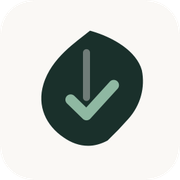
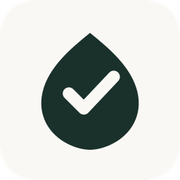
Simplify Morea mark to solid leaf with white check.
Match the high-contrast blob+tick read across favicon, headers, and Vercel avatar.

Changed region(s): [[0.2222, 0.1667, 0.8056, 0.8333], [0.3333, 0.25, 0.6667, 0.6944]]

diff --git a/register.html b/register.html
@@ -17,7 +17,7 @@
 <header class="site-header">
   <div class="container-wide">
     <a class="wordmark" href="/">
-      <svg class="logo-mark" viewBox="0 0 32 32" aria-hidden="true" fill="none"><path d="M16 2.5c-3.2 2.6-8.8 6.2-10.6 12.2-1.5 5 .6 9.4 4.6 12.1 1.7 1.2 3.6 1.9 5.6 1.9 1.4 0 2.9-.4 4.4-1.2L22.5 25l2.2-2.4c2.8-3.1 3.9-7.2 3.1-11.1C26.6 7.2 21.4 4 16 2.5z" fill="currentColor"/><path d="M15.2 7.5v10.2" stroke="currentColor" stroke-width="1.6" stroke-linecap="round" opacity="0.38"/><path class="logo-check" d="M11.6 18.2l3.6 3.5 6.2-6.8" stroke-width="2.4" stroke-linecap="round" stroke-linejoin="round"/></svg>
+      <svg class="logo-mark" viewBox="0 0 32 32" aria-hidden="true" fill="none"><path d="M16 3c-4.2 3.4-9.5 7.8-10.8 13.5-1.2 5.2 1.4 9.6 5.8 11.8 1.8.9 3.6 1.3 5 1.3s3.2-.4 5-1.3c4.4-2.2 7-6.6 5.8-11.8C25.5 10.8 20.2 6.4 16 3z" fill="currentColor"/><path class="logo-check" d="M11.2 16.8l3.4 3.4 6.8-7.2" stroke-width="2.8" stroke-linecap="round" stroke-linejoin="round"/></svg>
       <span class="wordmark-text">Morea<span class="article4">Evidence Pack</span></span>
     </a>
     <nav class="site-nav no-print">
@@ -37,7 +37,7 @@
 
 <footer class="site-footer no-print">
   <div class="container-wide site-footer-bar">
-    <a class="footer-mark" href="/"><svg class="logo-mark" viewBox="0 0 32 32" aria-hidden="true" fill="none"><path d="M16 2.5c-3.2 2.6-8.8 6.2-10.6 12.2-1.5 5 .6 9.4 4.6 12.1 1.7 1.2 3.6 1.9 5.6 1.9 1.4 0 2.9-.4 4.4-1.2L22.5 25l2.2-2.4c2.8-3.1 3.9-7.2 3.1-11.1C26.6 7.2 21.4 4 16 2.5z" fill="currentColor"/><path d="M15.2 7.5v10.2" stroke="currentColor" stroke-width="1.6" stroke-linecap="round" opacity="0.38"/><path class="logo-check" d="M11.6 18.2l3.6 3.5 6.2-6.8" stroke-width="2.4" stroke-linecap="round" stroke-linejoin="round"/></svg>Morea</a>
+    <a class="footer-mark" href="/"><svg class="logo-mark" viewBox="0 0 32 32" aria-hidden="true" fill="none"><path d="M16 3c-4.2 3.4-9.5 7.8-10.8 13.5-1.2 5.2 1.4 9.6 5.8 11.8 1.8.9 3.6 1.3 5 1.3s3.2-.4 5-1.3c4.4-2.2 7-6.6 5.8-11.8C25.5 10.8 20.2 6.4 16 3z" fill="currentColor"/><path class="logo-check" d="M11.2 16.8l3.4 3.4 6.8-7.2" stroke-width="2.8" stroke-linecap="round" stroke-linejoin="round"/></svg>Morea</a>
     <p class="footer-status">Personal reskilling project · Non-commercial · Not a product for sale · No accounts / no billing</p>
     <nav class="footer-links">
       <a href="/terms.html">Terms</a>

diff --git a/index.html b/index.html
@@ -67,7 +67,7 @@
 <header class="site-header">
   <div class="container-wide">
     <a class="wordmark" href="/">
-      <svg class="logo-mark" viewBox="0 0 32 32" aria-hidden="true" fill="none"><path d="M16 2.5c-3.2 2.6-8.8 6.2-10.6 12.2-1.5 5 .6 9.4 4.6 12.1 1.7 1.2 3.6 1.9 5.6 1.9 1.4 0 2.9-.4 4.4-1.2L22.5 25l2.2-2.4c2.8-3.1 3.9-7.2 3.1-11.1C26.6 7.2 21.4 4 16 2.5z" fill="currentColor"/><path d="M15.2 7.5v10.2" stroke="currentColor" stroke-width="1.6" stroke-linecap="round" opacity="0.38"/><path class="logo-check" d="M11.6 18.2l3.6 3.5 6.2-6.8" stroke-width="2.4" stroke-linecap="round" stroke-linejoin="round"/></svg>
+      <svg class="logo-mark" viewBox="0 0 32 32" aria-hidden="true" fill="none"><path d="M16 3c-4.2 3.4-9.5 7.8-10.8 13.5-1.2 5.2 1.4 9.6 5.8 11.8 1.8.9 3.6 1.3 5 1.3s3.2-.4 5-1.3c4.4-2.2 7-6.6 5.8-11.8C25.5 10.8 20.2 6.4 16 3z" fill="currentColor"/><path class="logo-check" d="M11.2 16.8l3.4 3.4 6.8-7.2" stroke-width="2.8" stroke-linecap="round" stroke-linejoin="round"/></svg>
       <span class="wordmark-text">Morea<span class="article4">Evidence Pack</span></span>
     </a>
     <nav class="site-nav">
@@ -169,7 +169,7 @@
 
 <footer class="site-footer">
     <div class="container-wide site-footer-bar">
-    <a class="footer-mark" href="/"><svg class="logo-mark" viewBox="0 0 32 32" aria-hidden="true" fill="none"><path d="M16 2.5c-3.2 2.6-8.8 6.2-10.6 12.2-1.5 5 .6 9.4 4.6 12.1 1.7 1.2 3.6 1.9 5.6 1.9 1.4 0 2.9-.4 4.4-1.2L22.5 25l2.2-2.4c2.8-3.1 3.9-7.2 3.1-11.1C26.6 7.2 21.4 4 16 2.5z" fill="currentColor"/><path d="M15.2 7.5v10.2" stroke="currentColor" stroke-width="1.6" stroke-linecap="round" opacity="0.38"/><path class="logo-check" d="M11.6 18.2l3.6 3.5 6.2-6.8" stroke-width="2.4" stroke-linecap="round" stroke-linejoin="round"/></svg>Morea</a>
+    <a class="footer-mark" href="/"><svg class="logo-mark" viewBox="0 0 32 32" aria-hidden="true" fill="none"><path d="M16 3c-4.2 3.4-9.5 7.8-10.8 13.5-1.2 5.2 1.4 9.6 5.8 11.8 1.8.9 3.6 1.3 5 1.3s3.2-.4 5-1.3c4.4-2.2 7-6.6 5.8-11.8C25.5 10.8 20.2 6.4 16 3z" fill="currentColor"/><path class="logo-check" d="M11.2 16.8l3.4 3.4 6.8-7.2" stroke-width="2.8" stroke-linecap="round" stroke-linejoin="round"/></svg>Morea</a>
     <p class="footer-status">Personal reskilling project · Non-commercial · Not a product for sale · No accounts / no billing</p>
     <nav class="footer-links">
       <a href="/terms.html">Terms</a>

diff --git a/assess.html b/assess.html
@@ -19,7 +19,7 @@
 <header class="site-header">
   <div class="container-wide">
     <a class="wordmark" href="/">
-      <svg class="logo-mark" viewBox="0 0 32 32" aria-hidden="true" fill="none"><path d="M16 2.5c-3.2 2.6-8.8 6.2-10.6 12.2-1.5 5 .6 9.4 4.6 12.1 1.7 1.2 3.6 1.9 5.6 1.9 1.4 0 2.9-.4 4.4-1.2L22.5 25l2.2-2.4c2.8-3.1 3.9-7.2 3.1-11.1C26.6 7.2 21.4 4 16 2.5z" fill="currentColor"/><path d="M15.2 7.5v10.2" stroke="currentColor" stroke-width="1.6" stroke-linecap="round" opacity="0.38"/><path class="logo-check" d="M11.6 18.2l3.6 3.5 6.2-6.8" stroke-width="2.4" stroke-linecap="round" stroke-linejoin="round"/></svg>
+      <svg class="logo-mark" viewBox="0 0 32 32" aria-hidden="true" fill="none"><path d="M16 3c-4.2 3.4-9.5 7.8-10.8 13.5-1.2 5.2 1.4 9.6 5.8 11.8 1.8.9 3.6 1.3 5 1.3s3.2-.4 5-1.3c4.4-2.2 7-6.6 5.8-11.8C25.5 10.8 20.2 6.4 16 3z" fill="currentColor"/><path class="logo-check" d="M11.2 16.8l3.4 3.4 6.8-7.2" stroke-width="2.8" stroke-linecap="round" stroke-linejoin="round"/></svg>
       <span class="wordmark-text">Morea<span class="article4">Evidence Pack</span></span>
     </a>
     <nav class="site-nav">
@@ -43,7 +43,7 @@
 
 <footer class="site-footer">
     <div class="container-wide site-footer-bar">
-    <a class="footer-mark" href="/"><svg class="logo-mark" viewBox="0 0 32 32" aria-hidden="true" fill="none"><path d="M16 2.5c-3.2 2.6-8.8 6.2-10.6 12.2-1.5 5 .6 9.4 4.6 12.1 1.7 1.2 3.6 1.9 5.6 1.9 1.4 0 2.9-.4 4.4-1.2L22.5 25l2.2-2.4c2.8-3.1 3.9-7.2 3.1-11.1C26.6 7.2 21.4 4 16 2.5z" fill="currentColor"/><path d="M15.2 7.5v10.2" stroke="currentColor" stroke-width="1.6" stroke-linecap="round" opacity="0.38"/><path class="logo-check" d="M11.6 18.2l3.6 3.5 6.2-6.8" stroke-width="2.4" stroke-linecap="round" stroke-linejoin="round"/></svg>Morea</a>
+    <a class="footer-mark" href="/"><svg class="logo-mark" viewBox="0 0 32 32" aria-hidden="true" fill="none"><path d="M16 3c-4.2 3.4-9.5 7.8-10.8 13.5-1.2 5.2 1.4 9.6 5.8 11.8 1.8.9 3.6 1.3 5 1.3s3.2-.4 5-1.3c4.4-2.2 7-6.6 5.8-11.8C25.5 10.8 20.2 6.4 16 3z" fill="currentColor"/><path class="logo-check" d="M11.2 16.8l3.4 3.4 6.8-7.2" stroke-width="2.8" stroke-linecap="round" stroke-linejoin="round"/></svg>Morea</a>
     <p class="footer-status">Personal reskilling project · Non-commercial · Not a product for sale · No accounts / no billing</p>
     <nav class="footer-links">
       <a href="/terms.html">Terms</a>

diff --git a/login.html b/login.html
@@ -18,7 +18,7 @@
 <header class="site-header">
   <div class="container-wide">
     <a class="wordmark" href="/">
-      <svg class="logo-mark" viewBox="0 0 32 32" aria-hidden="true" fill="none"><path d="M16 2.5c-3.2 2.6-8.8 6.2-10.6 12.2-1.5 5 .6 9.4 4.6 12.1 1.7 1.2 3.6 1.9 5.6 1.9 1.4 0 2.9-.4 4.4-1.2L22.5 25l2.2-2.4c2.8-3.1 3.9-7.2 3.1-11.1C26.6 7.2 21.4 4 16 2.5z" fill="currentColor"/><path d="M15.2 7.5v10.2" stroke="currentColor" stroke-width="1.6" stroke-linecap="round" opacity="0.38"/><path class="logo-check" d="M11.6 18.2l3.6 3.5 6.2-6.8" stroke-width="2.4" stroke-linecap="round" stroke-linejoin="round"/></svg>
+      <svg class="logo-mark" viewBox="0 0 32 32" aria-hidden="true" fill="none"><path d="M16 3c-4.2 3.4-9.5 7.8-10.8 13.5-1.2 5.2 1.4 9.6 5.8 11.8 1.8.9 3.6 1.3 5 1.3s3.2-.4 5-1.3c4.4-2.2 7-6.6 5.8-11.8C25.5 10.8 20.2 6.4 16 3z" fill="currentColor"/><path class="logo-check" d="M11.2 16.8l3.4 3.4 6.8-7.2" stroke-width="2.8" stroke-linecap="round" stroke-linejoin="round"/></svg>
       <span class="wordmark-text">Morea<span class="article4">Evidence Pack</span></span>
     </a>
     <nav class="site-nav">
@@ -49,7 +49,7 @@
 
 <footer class="site-footer">
     <div class="container-wide site-footer-bar">
-    <a class="footer-mark" href="/"><svg class="logo-mark" viewBox="0 0 32 32" aria-hidden="true" fill="none"><path d="M16 2.5c-3.2 2.6-8.8 6.2-10.6 12.2-1.5 5 .6 9.4 4.6 12.1 1.7 1.2 3.6 1.9 5.6 1.9 1.4 0 2.9-.4 4.4-1.2L22.5 25l2.2-2.4c2.8-3.1 3.9-7.2 3.1-11.1C26.6 7.2 21.4 4 16 2.5z" fill="currentColor"/><path d="M15.2 7.5v10.2" stroke="currentColor" stroke-width="1.6" stroke-linecap="round" opacity="0.38"/><path class="logo-check" d="M11.6 18.2l3.6 3.5 6.2-6.8" stroke-width="2.4" stroke-linecap="round" stroke-linejoin="round"/></svg>Morea</a>
+    <a class="footer-mark" href="/"><svg class="logo-mark" viewBox="0 0 32 32" aria-hidden="true" fill="none"><path d="M16 3c-4.2 3.4-9.5 7.8-10.8 13.5-1.2 5.2 1.4 9.6 5.8 11.8 1.8.9 3.6 1.3 5 1.3s3.2-.4 5-1.3c4.4-2.2 7-6.6 5.8-11.8C25.5 10.8 20.2 6.4 16 3z" fill="currentColor"/><path class="logo-check" d="M11.2 16.8l3.4 3.4 6.8-7.2" stroke-width="2.8" stroke-linecap="round" stroke-linejoin="round"/></svg>Morea</a>
     <p class="footer-status">Personal reskilling project · Non-commercial · Not a product for sale · No accounts / no billing</p>
     <nav class="footer-links">
       <a href="/terms.html">Terms</a>

diff --git a/module.html b/module.html
@@ -17,7 +17,7 @@
 <header class="site-header">
   <div class="container-wide">
     <a class="wordmark" href="/">
-      <svg class="logo-mark" viewBox="0 0 32 32" aria-hidden="true" fill="none"><path d="M16 2.5c-3.2 2.6-8.8 6.2-10.6 12.2-1.5 5 .6 9.4 4.6 12.1 1.7 1.2 3.6 1.9 5.6 1.9 1.4 0 2.9-.4 4.4-1.2L22.5 25l2.2-2.4c2.8-3.1 3.9-7.2 3.1-11.1C26.6 7.2 21.4 4 16 2.5z" fill="currentColor"/><path d="M15.2 7.5v10.2" stroke="currentColor" stroke-width="1.6" stroke-linecap="round" opacity="0.38"/><path class="logo-check" d="M11.6 18.2l3.6 3.5 6.2-6.8" stroke-width="2.4" stroke-linecap="round" stroke-linejoin="round"/></svg>
+      <svg class="logo-mark" viewBox="0 0 32 32" aria-hidden="true" fill="none"><path d="M16 3c-4.2 3.4-9.5 7.8-10.8 13.5-1.2 5.2 1.4 9.6 5.8 11.8 1.8.9 3.6 1.3 5 1.3s3.2-.4 5-1.3c4.4-2.2 7-6.6 5.8-11.8C25.5 10.8 20.2 6.4 16 3z" fill="currentColor"/><path class="logo-check" d="M11.2 16.8l3.4 3.4 6.8-7.2" stroke-width="2.8" stroke-linecap="round" stroke-linejoin="round"/></svg>
       <span class="wordmark-text">Morea<span class="article4">Evidence Pack</span></span>
     </a>
     <nav class="site-nav">
@@ -42,7 +42,7 @@
 
 <footer class="site-footer">
     <div class="container-wide site-footer-bar">
-    <a class="footer-mark" href="/"><svg class="logo-mark" viewBox="0 0 32 32" aria-hidden="true" fill="none"><path d="M16 2.5c-3.2 2.6-8.8 6.2-10.6 12.2-1.5 5 .6 9.4 4.6 12.1 1.7 1.2 3.6 1.9 5.6 1.9 1.4 0 2.9-.4 4.4-1.2L22.5 25l2.2-2.4c2.8-3.1 3.9-7.2 3.1-11.1C26.6 7.2 21.4 4 16 2.5z" fill="currentColor"/><path d="M15.2 7.5v10.2" stroke="currentColor" stroke-width="1.6" stroke-linecap="round" opacity="0.38"/><path class="logo-check" d="M11.6 18.2l3.6 3.5 6.2-6.8" stroke-width="2.4" stroke-linecap="round" stroke-linejoin="round"/></svg>Morea</a>
+    <a class="footer-mark" href="/"><svg class="logo-mark" viewBox="0 0 32 32" aria-hidden="true" fill="none"><path d="M16 3c-4.2 3.4-9.5 7.8-10.8 13.5-1.2 5.2 1.4 9.6 5.8 11.8 1.8.9 3.6 1.3 5 1.3s3.2-.4 5-1.3c4.4-2.2 7-6.6 5.8-11.8C25.5 10.8 20.2 6.4 16 3z" fill="currentColor"/><path class="logo-check" d="M11.2 16.8l3.4 3.4 6.8-7.2" stroke-width="2.8" stroke-linecap="round" stroke-linejoin="round"/></svg>Morea</a>
     <p class="footer-status">Personal reskilling project · Non-commercial · Not a product for sale · No accounts / no billing</p>
     <nav class="footer-links">
       <a href="/terms.html">Terms</a>

diff --git a/policy.html b/policy.html
@@ -18,7 +18,7 @@
 <header class="site-header">
   <div class="container-wide">
     <a class="wordmark" href="/">
-      <svg class="logo-mark" viewBox="0 0 32 32" aria-hidden="true" fill="none"><path d="M16 2.5c-3.2 2.6-8.8 6.2-10.6 12.2-1.5 5 .6 9.4 4.6 12.1 1.7 1.2 3.6 1.9 5.6 1.9 1.4 0 2.9-.4 4.4-1.2L22.5 25l2.2-2.4c2.8-3.1 3.9-7.2 3.1-11.1C26.6 7.2 21.4 4 16 2.5z" fill="currentColor"/><path d="M15.2 7.5v10.2" stroke="currentColor" stroke-width="1.6" stroke-linecap="round" opacity="0.38"/><path class="logo-check" d="M11.6 18.2l3.6 3.5 6.2-6.8" stroke-width="2.4" stroke-linecap="round" stroke-linejoin="round"/></svg>
+      <svg class="logo-mark" viewBox="0 0 32 32" aria-hidden="true" fill="none"><path d="M16 3c-4.2 3.4-9.5 7.8-10.8 13.5-1.2 5.2 1.4 9.6 5.8 11.8 1.8.9 3.6 1.3 5 1.3s3.2-.4 5-1.3c4.4-2.2 7-6.6 5.8-11.8C25.5 10.8 20.2 6.4 16 3z" fill="currentColor"/><path class="logo-check" d="M11.2 16.8l3.4 3.4 6.8-7.2" stroke-width="2.8" stroke-linecap="round" stroke-linejoin="round"/></svg>
       <span class="wordmark-text">Morea<span class="article4">Evidence Pack</span></span>
     </a>
     <nav class="site-nav">
@@ -40,7 +40,7 @@
 
 <footer class="site-footer">
     <div class="container-wide site-footer-bar">
-    <a class="footer-mark" href="/"><svg class="logo-mark" viewBox="0 0 32 32" aria-hidden="true" fill="none"><path d="M16 2.5c-3.2 2.6-8.8 6.2-10.6 12.2-1.5 5 .6 9.4 4.6 12.1 1.7 1.2 3.6 1.9 5.6 1.9 1.4 0 2.9-.4 4.4-1.2L22.5 25l2.2-2.4c2.8-3.1 3.9-7.2 3.1-11.1C26.6 7.2 21.4 4 16 2.5z" fill="currentColor"/><path d="M15.2 7.5v10.2" stroke="currentColor" stroke-width="1.6" stroke-linecap="round" opacity="0.38"/><path class="logo-check" d="M11.6 18.2l3.6 3.5 6.2-6.8" stroke-width="2.4" stroke-linecap="round" stroke-linejoin="round"/></svg>Morea</a>
+    <a class="footer-mark" href="/"><svg class="logo-mark" viewBox="0 0 32 32" aria-hidden="true" fill="none"><path d="M16 3c-4.2 3.4-9.5 7.8-10.8 13.5-1.2 5.2 1.4 9.6 5.8 11.8 1.8.9 3.6 1.3 5 1.3s3.2-.4 5-1.3c4.4-2.2 7-6.6 5.8-11.8C25.5 10.8 20.2 6.4 16 3z" fill="currentColor"/><path class="logo-check" d="M11.2 16.8l3.4 3.4 6.8-7.2" stroke-width="2.8" stroke-linecap="round" stroke-linejoin="round"/></svg>Morea</a>
     <p class="footer-status">Personal reskilling project · Non-commercial · Not a product for sale · No accounts / no billing</p>
     <nav class="footer-links">
       <a href="/terms.html">Terms</a>

diff --git a/privacy.html b/privacy.html
@@ -17,7 +17,7 @@
 <header class="site-header">
   <div class="container-wide">
     <a class="wordmark" href="/">
-      <svg class="logo-mark" viewBox="0 0 32 32" aria-hidden="true" fill="none"><path d="M16 2.5c-3.2 2.6-8.8 6.2-10.6 12.2-1.5 5 .6 9.4 4.6 12.1 1.7 1.2 3.6 1.9 5.6 1.9 1.4 0 2.9-.4 4.4-1.2L22.5 25l2.2-2.4c2.8-3.1 3.9-7.2 3.1-11.1C26.6 7.2 21.4 4 16 2.5z" fill="currentColor"/><path d="M15.2 7.5v10.2" stroke="currentColor" stroke-width="1.6" stroke-linecap="round" opacity="0.38"/><path class="logo-check" d="M11.6 18.2l3.6 3.5 6.2-6.8" stroke-width="2.4" stroke-linecap="round" stroke-linejoin="round"/></svg>
+      <svg class="logo-mark" viewBox="0 0 32 32" aria-hidden="true" fill="none"><path d="M16 3c-4.2 3.4-9.5 7.8-10.8 13.5-1.2 5.2 1.4 9.6 5.8 11.8 1.8.9 3.6 1.3 5 1.3s3.2-.4 5-1.3c4.4-2.2 7-6.6 5.8-11.8C25.5 10.8 20.2 6.4 16 3z" fill="currentColor"/><path class="logo-check" d="M11.2 16.8l3.4 3.4 6.8-7.2" stroke-width="2.8" stroke-linecap="round" stroke-linejoin="round"/></svg>
       <span class="wordmark-text">Morea<span class="article4">Evidence Pack</span></span>
     </a>
     <nav class="site-nav">
@@ -45,7 +45,7 @@
 
 <footer class="site-footer">
     <div class="container-wide site-footer-bar">
-    <a class="footer-mark" href="/"><svg class="logo-mark" viewBox="0 0 32 32" aria-hidden="true" fill="none"><path d="M16 2.5c-3.2 2.6-8.8 6.2-10.6 12.2-1.5 5 .6 9.4 4.6 12.1 1.7 1.2 3.6 1.9 5.6 1.9 1.4 0 2.9-.4 4.4-1.2L22.5 25l2.2-2.4c2.8-3.1 3.9-7.2 3.1-11.1C26.6 7.2 21.4 4 16 2.5z" fill="currentColor"/><path d="M15.2 7.5v10.2" stroke="currentColor" stroke-width="1.6" stroke-linecap="round" opacity="0.38"/><path class="logo-check" d="M11.6 18.2l3.6 3.5 6.2-6.8" stroke-width="2.4" stroke-linecap="round" stroke-linejoin="round"/></svg>Morea</a>
+    <a class="footer-mark" href="/"><svg class="logo-mark" viewBox="0 0 32 32" aria-hidden="true" fill="none"><path d="M16 3c-4.2 3.4-9.5 7.8-10.8 13.5-1.2 5.2 1.4 9.6 5.8 11.8 1.8.9 3.6 1.3 5 1.3s3.2-.4 5-1.3c4.4-2.2 7-6.6 5.8-11.8C25.5 10.8 20.2 6.4 16 3z" fill="currentColor"/><path class="logo-check" d="M11.2 16.8l3.4 3.4 6.8-7.2" stroke-width="2.8" stroke-linecap="round" stroke-linejoin="round"/></svg>Morea</a>
     <p class="footer-status">Personal reskilling project · Non-commercial · Not a product for sale · No accounts / no billing</p>
     <nav class="footer-links">
       <a href="/terms.html">Terms</a>

diff --git a/signup.html b/signup.html
@@ -20,7 +20,7 @@
 <header class="site-header">
   <div class="container-wide">
     <a class="wordmark" href="/">
-      <svg class="logo-mark" viewBox="0 0 32 32" aria-hidden="true" fill="none"><path d="M16 2.5c-3.2 2.6-8.8 6.2-10.6 12.2-1.5 5 .6 9.4 4.6 12.1 1.7 1.2 3.6 1.9 5.6 1.9 1.4 0 2.9-.4 4.4-1.2L22.5 25l2.2-2.4c2.8-3.1 3.9-7.2 3.1-11.1C26.6 7.2 21.4 4 16 2.5z" fill="currentColor"/><path d="M15.2 7.5v10.2" stroke="currentColor" stroke-width="1.6" stroke-linecap="round" opacity="0.38"/><path class="logo-check" d="M11.6 18.2l3.6 3.5 6.2-6.8" stroke-width="2.4" stroke-linecap="round" stroke-linejoin="round"/></svg>
+      <svg class="logo-mark" viewBox="0 0 32 32" aria-hidden="true" fill="none"><path d="M16 3c-4.2 3.4-9.5 7.8-10.8 13.5-1.2 5.2 1.4 9.6 5.8 11.8 1.8.9 3.6 1.3 5 1.3s3.2-.4 5-1.3c4.4-2.2 7-6.6 5.8-11.8C25.5 10.8 20.2 6.4 16 3z" fill="currentColor"/><path class="logo-check" d="M11.2 16.8l3.4 3.4 6.8-7.2" stroke-width="2.8" stroke-linecap="round" stroke-linejoin="round"/></svg>
       <span class="wordmark-text">Morea<span class="article4">Evidence Pack</span></span>
     </a>
     <nav class="site-nav">
@@ -65,7 +65,7 @@
 
 <footer class="site-footer">
     <div class="container-wide site-footer-bar">
-    <a class="footer-mark" href="/"><svg class="logo-mark" viewBox="0 0 32 32" aria-hidden="true" fill="none"><path d="M16 2.5c-3.2 2.6-8.8 6.2-10.6 12.2-1.5 5 .6 9.4 4.6 12.1 1.7 1.2 3.6 1.9 5.6 1.9 1.4 0 2.9-.4 4.4-1.2L22.5 25l2.2-2.4c2.8-3.1 3.9-7.2 3.1-11.1C26.6 7.2 21.4 4 16 2.5z" fill="currentColor"/><path d="M15.2 7.5v10.2" stroke="currentColor" stroke-width="1.6" stroke-linecap="round" opacity="0.38"/><path class="logo-check" d="M11.6 18.2l3.6 3.5 6.2-6.8" stroke-width="2.4" stroke-linecap="round" stroke-linejoin="round"/></svg>Morea</a>
+    <a class="footer-mark" href="/"><svg class="logo-mark" viewBox="0 0 32 32" aria-hidden="true" fill="none"><path d="M16 3c-4.2 3.4-9.5 7.8-10.8 13.5-1.2 5.2 1.4 9.6 5.8 11.8 1.8.9 3.6 1.3 5 1.3s3.2-.4 5-1.3c4.4-2.2 7-6.6 5.8-11.8C25.5 10.8 20.2 6.4 16 3z" fill="currentColor"/><path class="logo-check" d="M11.2 16.8l3.4 3.4 6.8-7.2" stroke-width="2.8" stroke-linecap="round" stroke-linejoin="round"/></svg>Morea</a>
     <p class="footer-status">Personal reskilling project · Non-commercial · Not a product for sale · No accounts / no billing</p>
     <nav class="footer-links">
       <a href="/terms.html">Terms</a>

diff --git a/terms.html b/terms.html
@@ -17,7 +17,7 @@
 <header class="site-header">
   <div class="container-wide">
     <a class="wordmark" href="/">
-      <svg class="logo-mark" viewBox="0 0 32 32" aria-hidden="true" fill="none"><path d="M16 2.5c-3.2 2.6-8.8 6.2-10.6 12.2-1.5 5 .6 9.4 4.6 12.1 1.7 1.2 3.6 1.9 5.6 1.9 1.4 0 2.9-.4 4.4-1.2L22.5 25l2.2-2.4c2.8-3.1 3.9-7.2 3.1-11.1C26.6 7.2 21.4 4 16 2.5z" fill="currentColor"/><path d="M15.2 7.5v10.2" stroke="currentColor" stroke-width="1.6" stroke-linecap="round" opacity="0.38"/><path class="logo-check" d="M11.6 18.2l3.6 3.5 6.2-6.8" stroke-width="2.4" stroke-linecap="round" stroke-linejoin="round"/></svg>
+      <svg class="logo-mark" viewBox="0 0 32 32" aria-hidden="true" fill="none"><path d="M16 3c-4.2 3.4-9.5 7.8-10.8 13.5-1.2 5.2 1.4 9.6 5.8 11.8 1.8.9 3.6 1.3 5 1.3s3.2-.4 5-1.3c4.4-2.2 7-6.6 5.8-11.8C25.5 10.8 20.2 6.4 16 3z" fill="currentColor"/><path class="logo-check" d="M11.2 16.8l3.4 3.4 6.8-7.2" stroke-width="2.8" stroke-linecap="round" stroke-linejoin="round"/></svg>
       <span class="wordmark-text">Morea<span class="article4">Evidence Pack</span></span>
     </a>
     <nav class="site-nav">
@@ -43,7 +43,7 @@
 
 <footer class="site-footer">
     <div class="container-wide site-footer-bar">
-    <a class="footer-mark" href="/"><svg class="logo-mark" viewBox="0 0 32 32" aria-hidden="true" fill="none"><path d="M16 2.5c-3.2 2.6-8.8 6.2-10.6 12.2-1.5 5 .6 9.4 4.6 12.1 1.7 1.2 3.6 1.9 5.6 1.9 1.4 0 2.9-.4 4.4-1.2L22.5 25l2.2-2.4c2.8-3.1 3.9-7.2 3.1-11.1C26.6 7.2 21.4 4 16 2.5z" fill="currentColor"/><path d="M15.2 7.5v10.2" stroke="currentColor" stroke-width="1.6" stroke-linecap="round" opacity="0.38"/><path class="logo-check" d="M11.6 18.2l3.6 3.5 6.2-6.8" stroke-width="2.4" stroke-linecap="round" stroke-linejoin="round"/></svg>Morea</a>
+    <a class="footer-mark" href="/"><svg class="logo-mark" viewBox="0 0 32 32" aria-hidden="true" fill="none"><path d="M16 3c-4.2 3.4-9.5 7.8-10.8 13.5-1.2 5.2 1.4 9.6 5.8 11.8 1.8.9 3.6 1.3 5 1.3s3.2-.4 5-1.3c4.4-2.2 7-6.6 5.8-11.8C25.5 10.8 20.2 6.4 16 3z" fill="currentColor"/><path class="logo-check" d="M11.2 16.8l3.4 3.4 6.8-7.2" stroke-width="2.8" stroke-linecap="round" stroke-linejoin="round"/></svg>Morea</a>
     <p class="footer-status">Personal reskilling project · Non-commercial · Not a product for sale · No accounts / no billing</p>
     <nav class="footer-links">
       <a href="/terms.html">Terms</a>

diff --git a/workspace.html b/workspace.html
@@ -18,7 +18,7 @@
 <header class="site-header">
   <div class="container-wide">
     <a class="wordmark" href="/">
-      <svg class="logo-mark" viewBox="0 0 32 32" aria-hidden="true" fill="none"><path d="M16 2.5c-3.2 2.6-8.8 6.2-10.6 12.2-1.5 5 .6 9.4 4.6 12.1 1.7 1.2 3.6 1.9 5.6 1.9 1.4 0 2.9-.4 4.4-1.2L22.5 25l2.2-2.4c2.8-3.1 3.9-7.2 3.1-11.1C26.6 7.2 21.4 4 16 2.5z" fill="currentColor"/><path d="M15.2 7.5v10.2" stroke="currentColor" stroke-width="1.6" stroke-linecap="round" opacity="0.38"/><path class="logo-check" d="M11.6 18.2l3.6 3.5 6.2-6.8" stroke-width="2.4" stroke-linecap="round" stroke-linejoin="round"/></svg>
+      <svg class="logo-mark" viewBox="0 0 32 32" aria-hidden="true" fill="none"><path d="M16 3c-4.2 3.4-9.5 7.8-10.8 13.5-1.2 5.2 1.4 9.6 5.8 11.8 1.8.9 3.6 1.3 5 1.3s3.2-.4 5-1.3c4.4-2.2 7-6.6 5.8-11.8C25.5 10.8 20.2 6.4 16 3z" fill="currentColor"/><path class="logo-check" d="M11.2 16.8l3.4 3.4 6.8-7.2" stroke-width="2.8" stroke-linecap="round" stroke-linejoin="round"/></svg>
       <span class="wordmark-text">Morea<span class="article4">Evidence Pack</span></span>
     </a>
     <nav class="site-nav">
@@ -34,7 +34,7 @@
 
 <footer class="site-footer">
     <div class="container-wide site-footer-bar">
-    <a class="footer-mark" href="/"><svg class="logo-mark" viewBox="0 0 32 32" aria-hidden="true" fill="none"><path d="M16 2.5c-3.2 2.6-8.8 6.2-10.6 12.2-1.5 5 .6 9.4 4.6 12.1 1.7 1.2 3.6 1.9 5.6 1.9 1.4 0 2.9-.4 4.4-1.2L22.5 25l2.2-2.4c2.8-3.1 3.9-7.2 3.1-11.1C26.6 7.2 21.4 4 16 2.5z" fill="currentColor"/><path d="M15.2 7.5v10.2" stroke="currentColor" stroke-width="1.6" stroke-linecap="round" opacity="0.38"/><path class="logo-check" d="M11.6 18.2l3.6 3.5 6.2-6.8" stroke-width="2.4" stroke-linecap="round" stroke-linejoin="round"/></svg>Morea</a>
+    <a class="footer-mark" href="/"><svg class="logo-mark" viewBox="0 0 32 32" aria-hidden="true" fill="none"><path d="M16 3c-4.2 3.4-9.5 7.8-10.8 13.5-1.2 5.2 1.4 9.6 5.8 11.8 1.8.9 3.6 1.3 5 1.3s3.2-.4 5-1.3c4.4-2.2 7-6.6 5.8-11.8C25.5 10.8 20.2 6.4 16 3z" fill="currentColor"/><path class="logo-check" d="M11.2 16.8l3.4 3.4 6.8-7.2" stroke-width="2.8" stroke-linecap="round" stroke-linejoin="round"/></svg>Morea</a>
     <p class="footer-status">Personal reskilling project · Non-commercial · Not a product for sale · No accounts / no billing</p>
     <nav class="footer-links">
       <a href="/terms.html">Terms</a>

diff --git a/inventory.html b/inventory.html
@@ -19,7 +19,7 @@
 <header class="site-header">
   <div class="container-wide">
     <a class="wordmark" href="/">
-      <svg class="logo-mark" viewBox="0 0 32 32" aria-hidden="true" fill="none"><path d="M16 2.5c-3.2 2.6-8.8 6.2-10.6 12.2-1.5 5 .6 9.4 4.6 12.1 1.7 1.2 3.6 1.9 5.6 1.9 1.4 0 2.9-.4 4.4-1.2L22.5 25l2.2-2.4c2.8-3.1 3.9-7.2 3.1-11.1C26.6 7.2 21.4 4 16 2.5z" fill="currentColor"/><path d="M15.2 7.5v10.2" stroke="currentColor" stroke-width="1.6" stroke-linecap="round" opacity="0.38"/><path class="logo-check" d="M11.6 18.2l3.6 3.5 6.2-6.8" stroke-width="2.4" stroke-linecap="round" stroke-linejoin="round"/></svg>
+      <svg class="logo-mark" viewBox="0 0 32 32" aria-hidden="true" fill="none"><path d="M16 3c-4.2 3.4-9.5 7.8-10.8 13.5-1.2 5.2 1.4 9.6 5.8 11.8 1.8.9 3.6 1.3 5 1.3s3.2-.4 5-1.3c4.4-2.2 7-6.6 5.8-11.8C25.5 10.8 20.2 6.4 16 3z" fill="currentColor"/><path class="logo-check" d="M11.2 16.8l3.4 3.4 6.8-7.2" stroke-width="2.8" stroke-linecap="round" stroke-linejoin="round"/></svg>
       <span class="wordmark-text">Morea<span class="article4">Evidence Pack</span></span>
     </a>
     <nav class="site-nav">
@@ -45,7 +45,7 @@
 
 <footer class="site-footer">
   <div class="container-wide site-footer-bar">
-    <a class="footer-mark" href="/"><svg class="logo-mark" viewBox="0 0 32 32" aria-hidden="true" fill="none"><path d="M16 2.5c-3.2 2.6-8.8 6.2-10.6 12.2-1.5 5 .6 9.4 4.6 12.1 1.7 1.2 3.6 1.9 5.6 1.9 1.4 0 2.9-.4 4.4-1.2L22.5 25l2.2-2.4c2.8-3.1 3.9-7.2 3.1-11.1C26.6 7.2 21.4 4 16 2.5z" fill="currentColor"/><path d="M15.2 7.5v10.2" stroke="currentColor" stroke-width="1.6" stroke-linecap="round" opacity="0.38"/><path class="logo-check" d="M11.6 18.2l3.6 3.5 6.2-6.8" stroke-width="2.4" stroke-linecap="round" stroke-linejoin="round"/></svg>Morea</a>
+    <a class="footer-mark" href="/"><svg class="logo-mark" viewBox="0 0 32 32" aria-hidden="true" fill="none"><path d="M16 3c-4.2 3.4-9.5 7.8-10.8 13.5-1.2 5.2 1.4 9.6 5.8 11.8 1.8.9 3.6 1.3 5 1.3s3.2-.4 5-1.3c4.4-2.2 7-6.6 5.8-11.8C25.5 10.8 20.2 6.4 16 3z" fill="currentColor"/><path class="logo-check" d="M11.2 16.8l3.4 3.4 6.8-7.2" stroke-width="2.8" stroke-linecap="round" stroke-linejoin="round"/></svg>Morea</a>
     <p class="footer-status">Personal reskilling project · Non-commercial · Not a product for sale · No accounts / no billing</p>
     <nav class="footer-links">
       <a href="/terms.html">Terms</a>

diff --git a/quiz.html b/quiz.html
@@ -17,7 +17,7 @@
 <header class="site-header">
   <div class="container-wide">
     <a class="wordmark" href="/">
-      <svg class="logo-mark" viewBox="0 0 32 32" aria-hidden="true" fill="none"><path d="M16 2.5c-3.2 2.6-8.8 6.2-10.6 12.2-1.5 5 .6 9.4 4.6 12.1 1.7 1.2 3.6 1.9 5.6 1.9 1.4 0 2.9-.4 4.4-1.2L22.5 25l2.2-2.4c2.8-3.1 3.9-7.2 3.1-11.1C26.6 7.2 21.4 4 16 2.5z" fill="currentColor"/><path d="M15.2 7.5v10.2" stroke="currentColor" stroke-width="1.6" stroke-linecap="round" opacity="0.38"/><path class="logo-check" d="M11.6 18.2l3.6 3.5 6.2-6.8" stroke-width="2.4" stroke-linecap="round" stroke-linejoin="round"/></svg>
+      <svg class="logo-mark" viewBox="0 0 32 32" aria-hidden="true" fill="none"><path d="M16 3c-4.2 3.4-9.5 7.8-10.8 13.5-1.2 5.2 1.4 9.6 5.8 11.8 1.8.9 3.6 1.3 5 1.3s3.2-.4 5-1.3c4.4-2.2 7-6.6 5.8-11.8C25.5 10.8 20.2 6.4 16 3z" fill="currentColor"/><path class="logo-check" d="M11.2 16.8l3.4 3.4 6.8-7.2" stroke-width="2.8" stroke-linecap="round" stroke-linejoin="round"/></svg>
       <span class="wordmark-text">Morea<span class="article4">Evidence Pack</span></span>
     </a>
     <nav class="site-nav">
@@ -39,7 +39,7 @@
 
 <footer class="site-footer">
   <div class="container-wide site-footer-bar">
-    <a class="footer-mark" href="/"><svg class="logo-mark" viewBox="0 0 32 32" aria-hidden="true" fill="none"><path d="M16 2.5c-3.2 2.6-8.8 6.2-10.6 12.2-1.5 5 .6 9.4 4.6 12.1 1.7 1.2 3.6 1.9 5.6 1.9 1.4 0 2.9-.4 4.4-1.2L22.5 25l2.2-2.4c2.8-3.1 3.9-7.2 3.1-11.1C26.6 7.2 21.4 4 16 2.5z" fill="currentColor"/><path d="M15.2 7.5v10.2" stroke="currentColor" stroke-width="1.6" stroke-linecap="round" opacity="0.38"/><path class="logo-check" d="M11.6 18.2l3.6 3.5 6.2-6.8" stroke-width="2.4" stroke-linecap="round" stroke-linejoin="round"/></svg>Morea</a>
+    <a class="footer-mark" href="/"><svg class="logo-mark" viewBox="0 0 32 32" aria-hidden="true" fill="none"><path d="M16 3c-4.2 3.4-9.5 7.8-10.8 13.5-1.2 5.2 1.4 9.6 5.8 11.8 1.8.9 3.6 1.3 5 1.3s3.2-.4 5-1.3c4.4-2.2 7-6.6 5.8-11.8C25.5 10.8 20.2 6.4 16 3z" fill="currentColor"/><path class="logo-check" d="M11.2 16.8l3.4 3.4 6.8-7.2" stroke-width="2.8" stroke-linecap="round" stroke-linejoin="round"/></svg>Morea</a>
     <p class="footer-status">Personal reskilling project · Non-commercial · Not a product for sale · No accounts / no billing</p>
     <nav class="footer-links">
       <a href="/terms.html">Terms</a>
